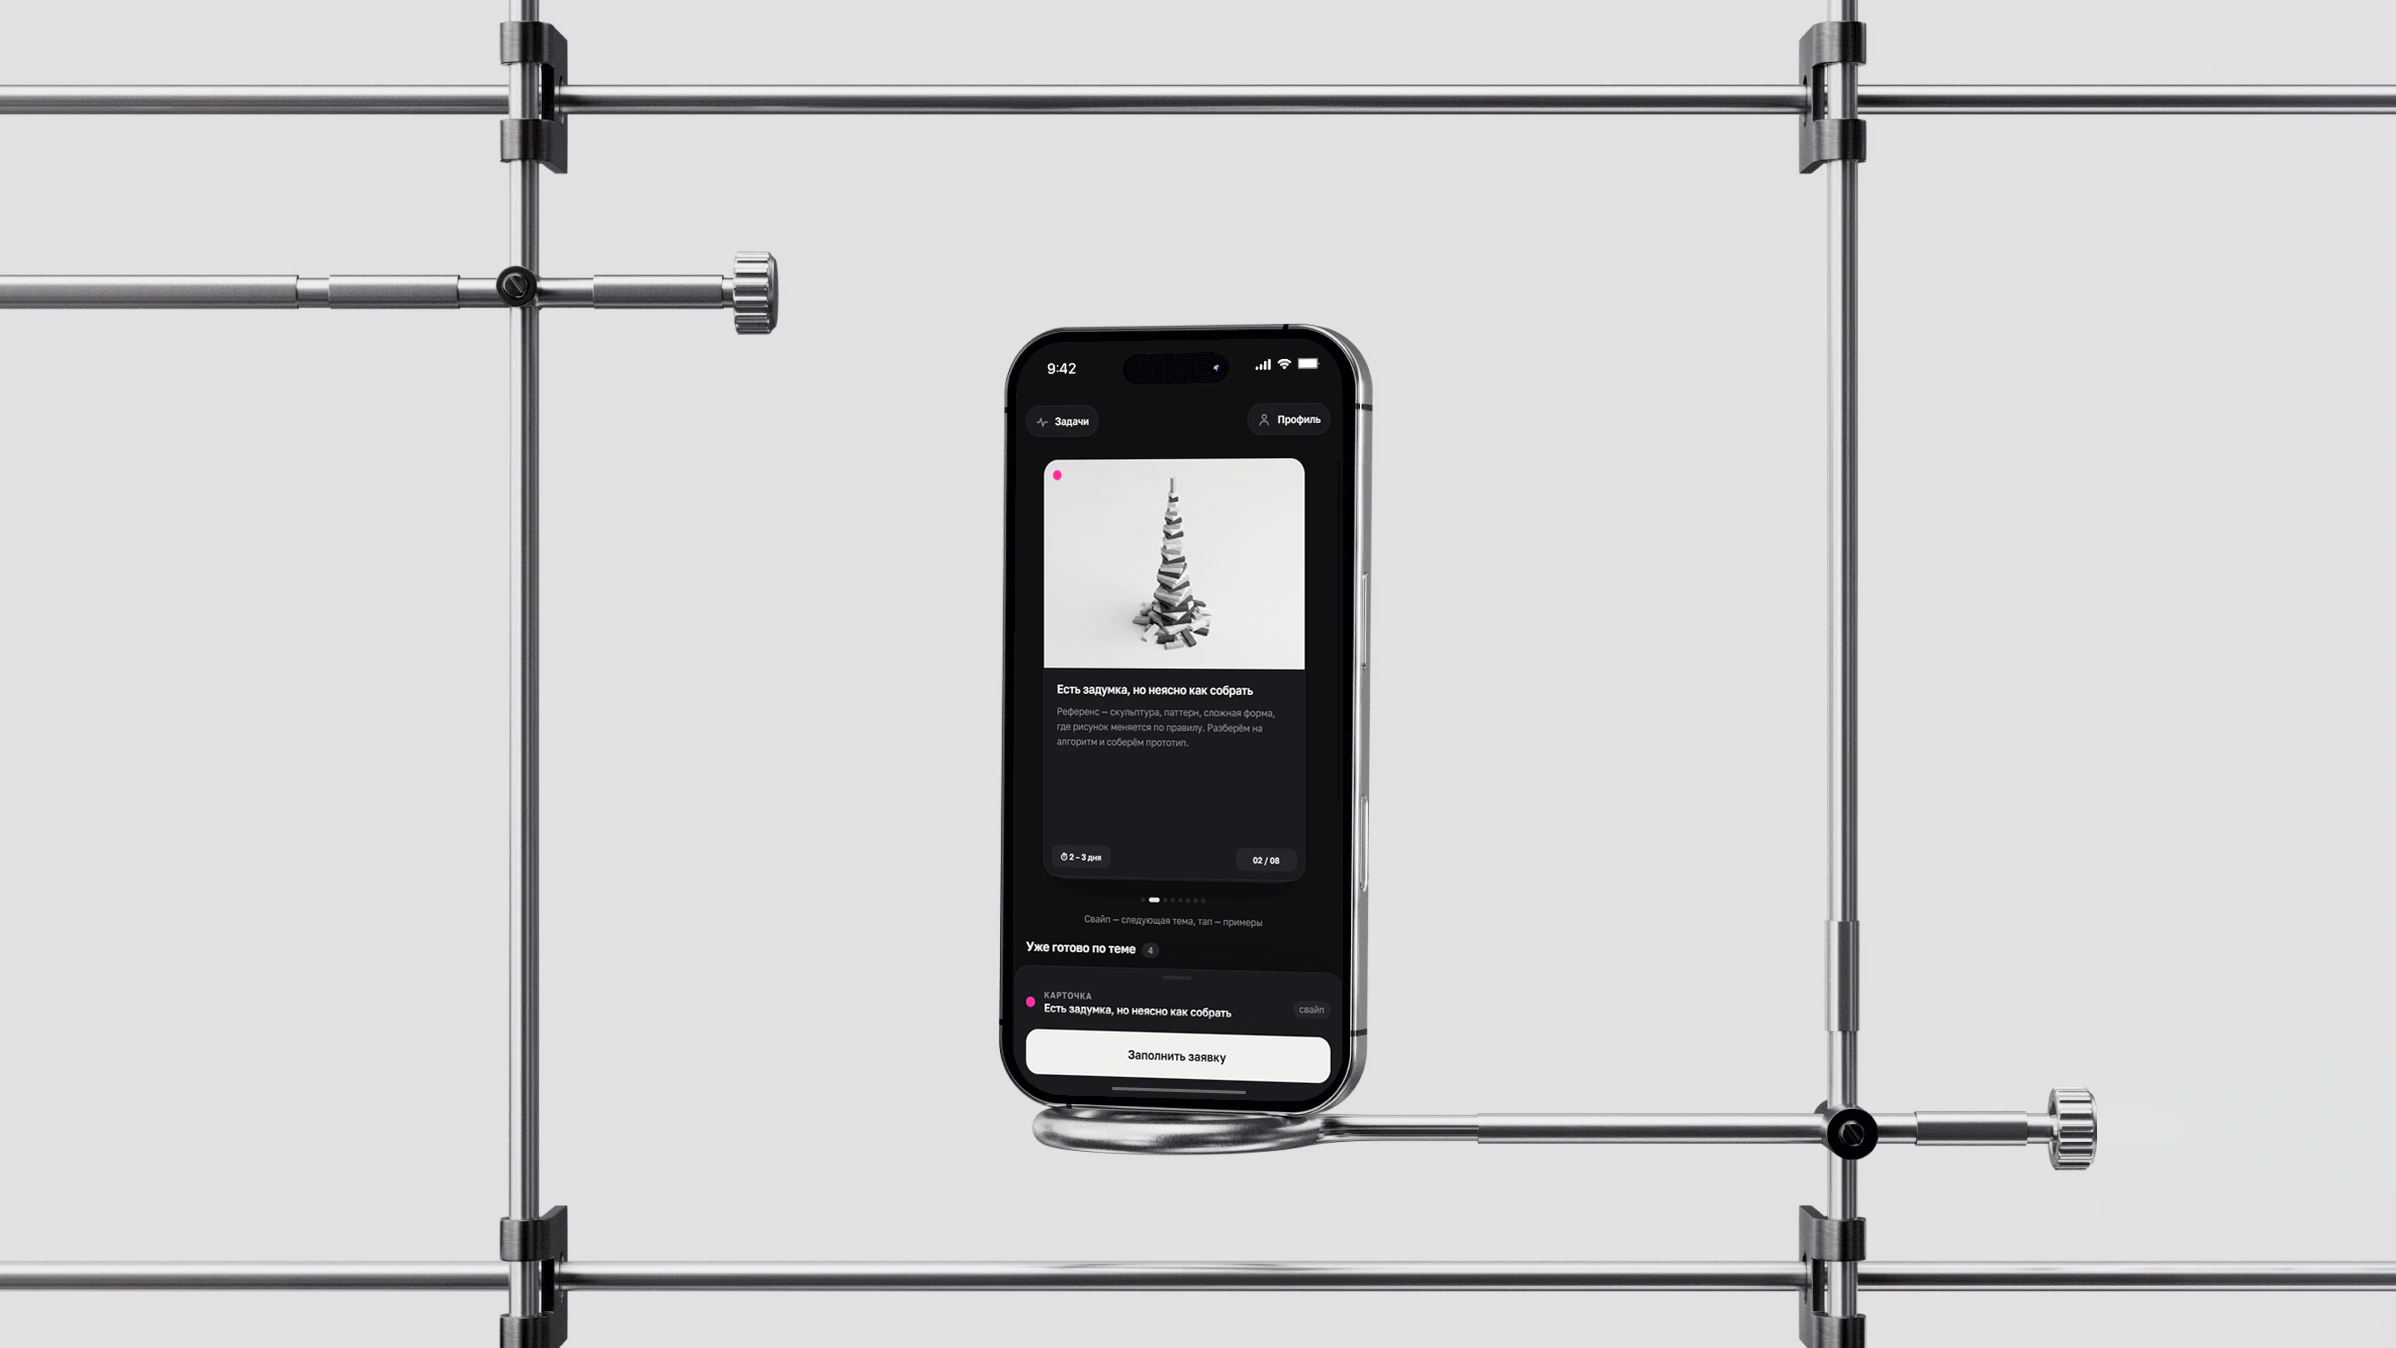
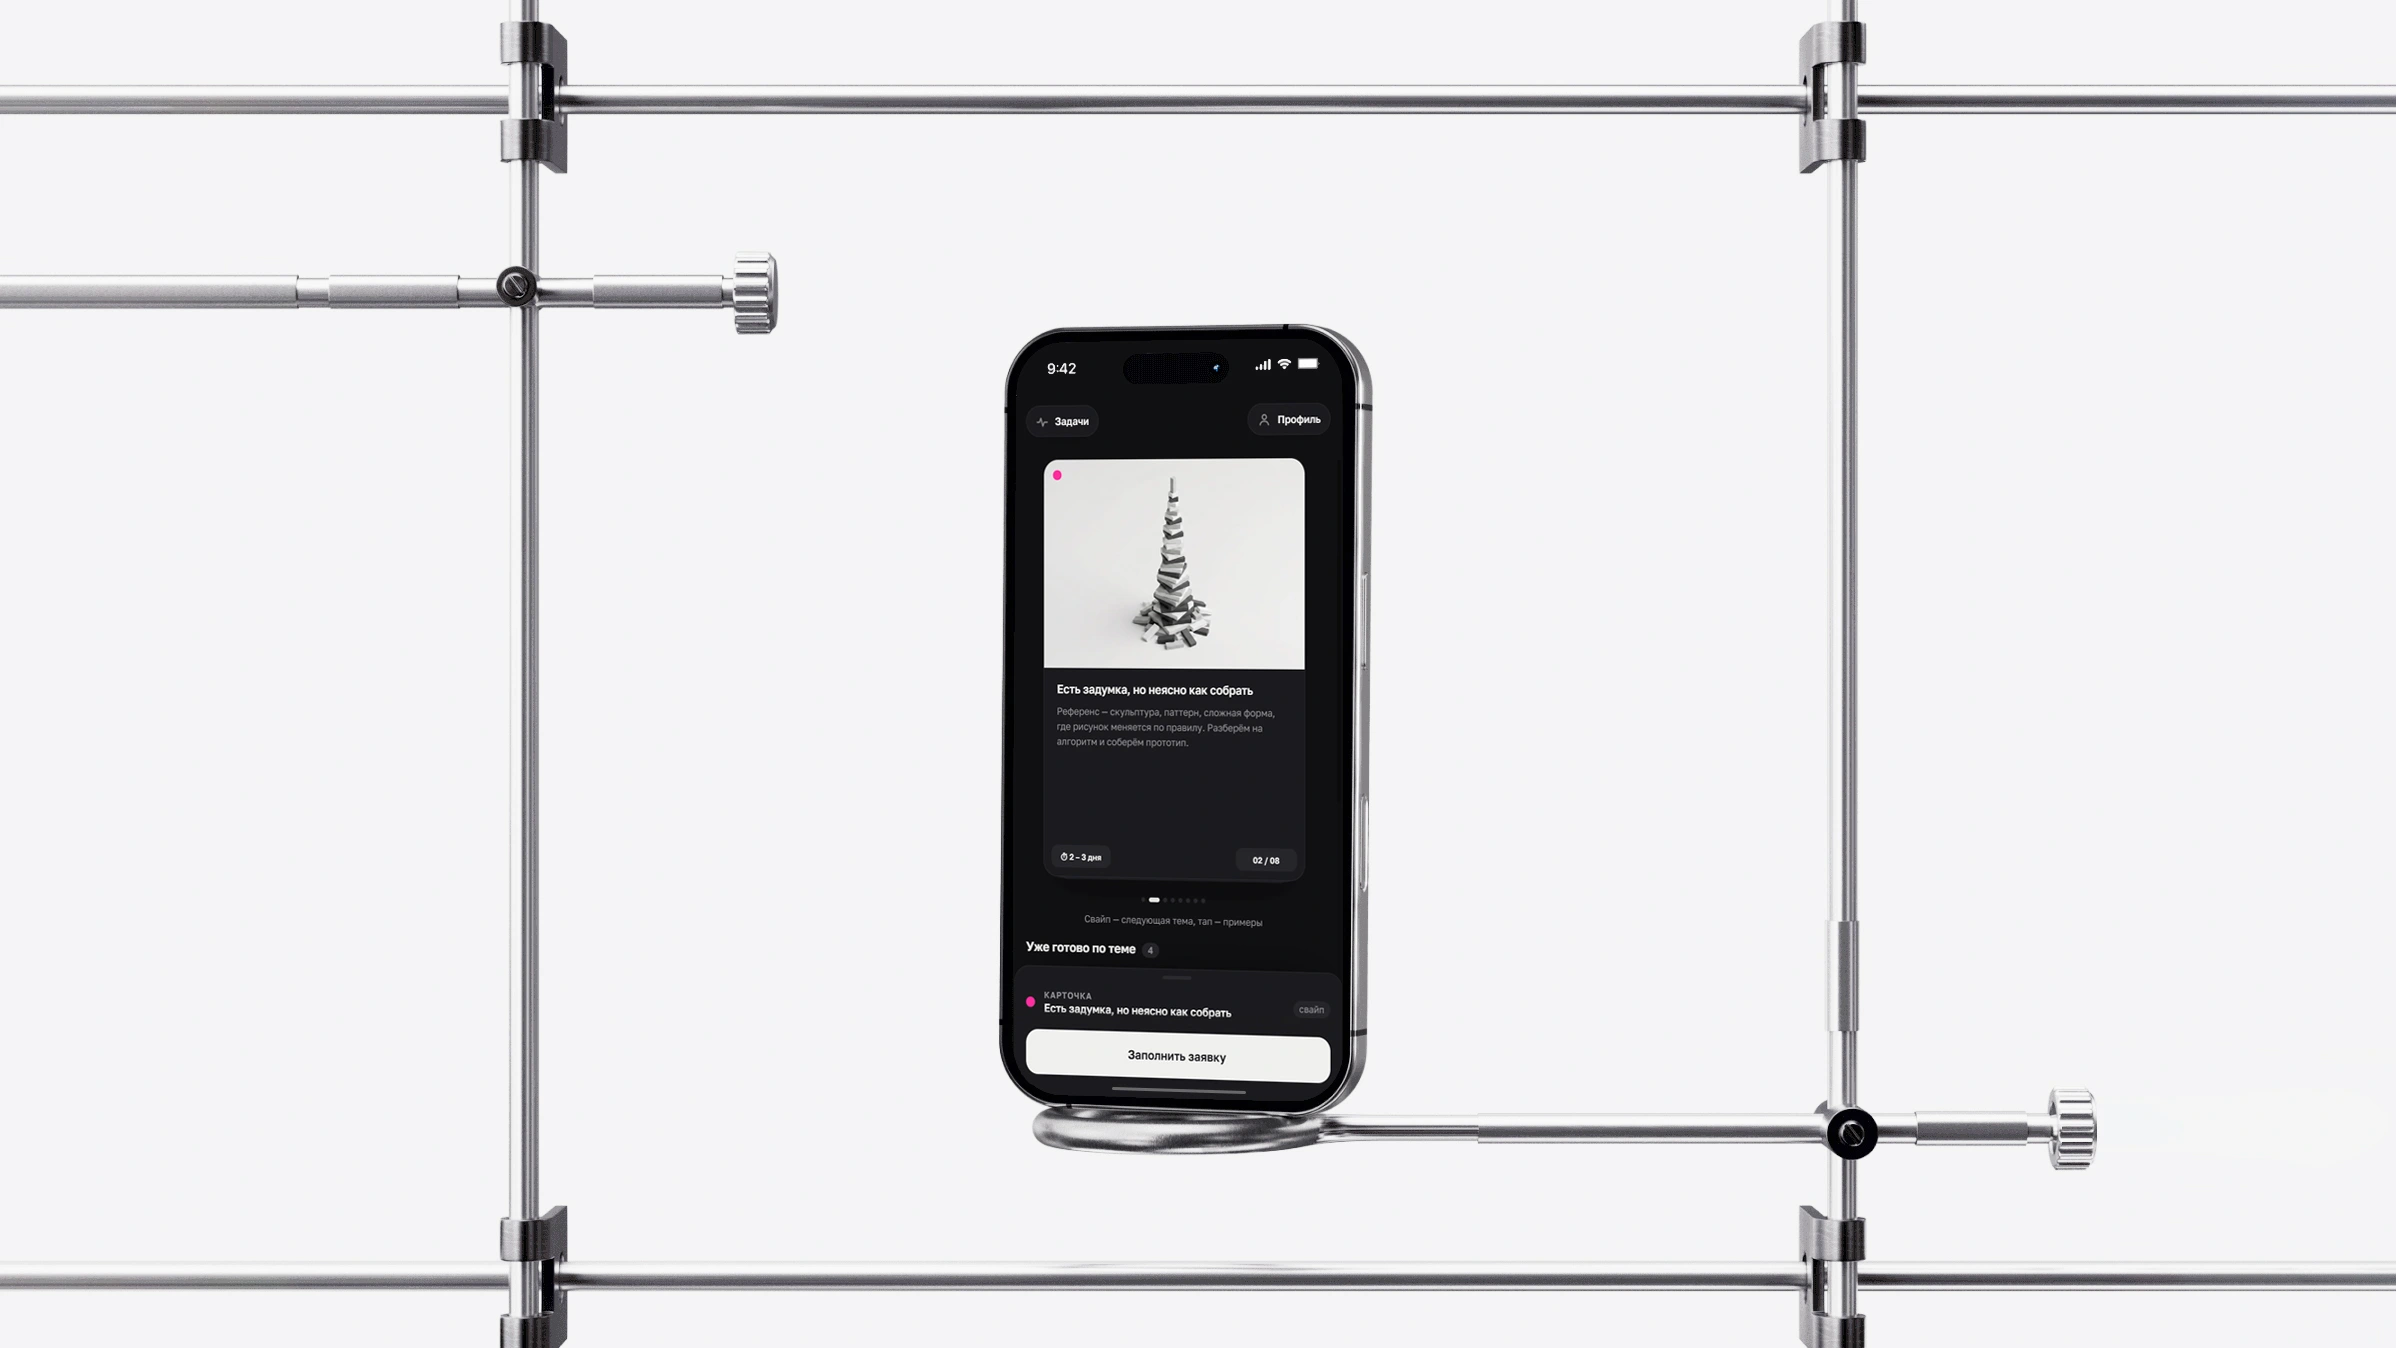
Refresh covers and make entrance animations apparent

Changed region(s): [[0.0, 0.0, 1.0, 1.0], [0.4633, 0.8412, 0.4942, 0.8724]]

diff --git a/src/app/_components/typed-headline.tsx b/src/app/_components/typed-headline.tsx
@@ -31,14 +31,17 @@ function commonPrefix(a: string, b: string): number {
 }
 
 export function TypedHeadline() {
-  const [shown, setShown] = useState(PHRASES[0]);
+  const [shown, setShown] = useState(LINES[0][0] + "\n");
   const timer = useRef<ReturnType<typeof setTimeout> | undefined>(undefined);
 
   useEffect(() => {
     let index = 0;
-    let length = PHRASES[0].length;
+    let length = LINES[0][0].length + 1;
     let erasing = false;
-    if (window.matchMedia("(prefers-reduced-motion: reduce)").matches) return;
+    if (window.matchMedia("(prefers-reduced-motion: reduce)").matches) {
+      timer.current = setTimeout(() => setShown(PHRASES[0]), 0);
+      return () => clearTimeout(timer.current);
+    }
 
     const tick = () => {
       const target = PHRASES[index];
@@ -70,7 +73,7 @@ export function TypedHeadline() {
       timer.current = setTimeout(tick, AFTER_ERASE);
     };
 
-    timer.current = setTimeout(tick, 700);
+    timer.current = setTimeout(tick, 300);
     return () => clearTimeout(timer.current);
   }, []);
 

diff --git a/src/app/_components/hero-arc.tsx b/src/app/_components/hero-arc.tsx
@@ -16,7 +16,7 @@ function Arc({ mobile = false }: { mobile?: boolean }) {
         const angle = Math.PI + t * Math.PI;
         const accent = Math.abs(t - 0.5) < 0.07;
         return (
-          <g key={i} className={styles.mark} style={{ animationDelay: (100 + t * 650) + "ms" }}>
+          <g key={i} className={styles.mark} style={{ animationDelay: (150 + t * 1000) + "ms" }}>
             <circle cx={cx + Math.cos(angle) * rx} cy={cy + Math.sin(angle) * ry}
               r={accent ? (mobile ? 2.5 : 3.2) : (mobile ? 1.8 : 2)}
               fill={accent ? "var(--ink)" : "var(--ink-4)"} opacity={accent ? 1 : 0.55} />

diff --git a/src/app/_components/hero-arc.module.css b/src/app/_components/hero-arc.module.css
@@ -17,7 +17,7 @@
 
 .mark {
   opacity: 0;
-  animation: markIn 700ms var(--ease) both;
+  animation: markIn 1100ms var(--ease) both;
 }
 
 @keyframes markIn {
